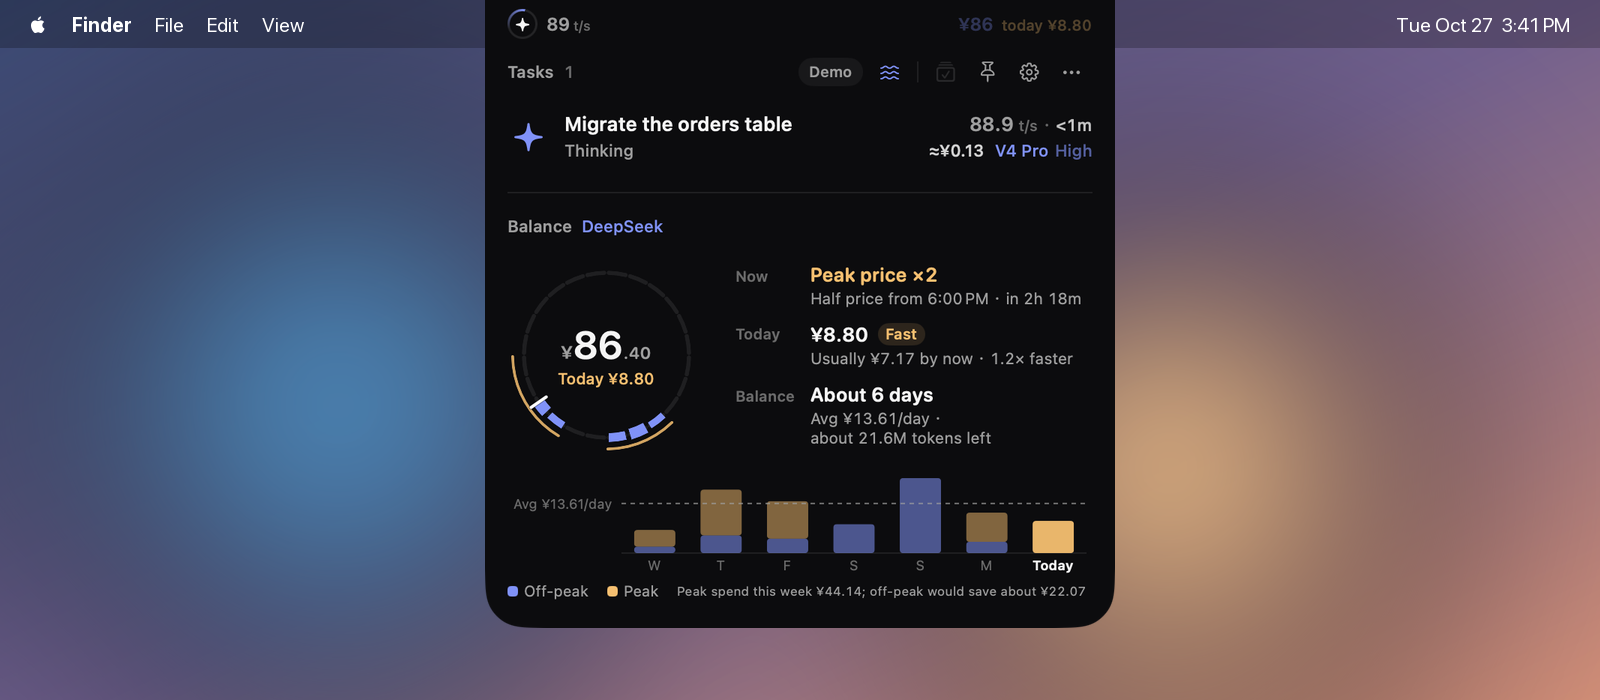
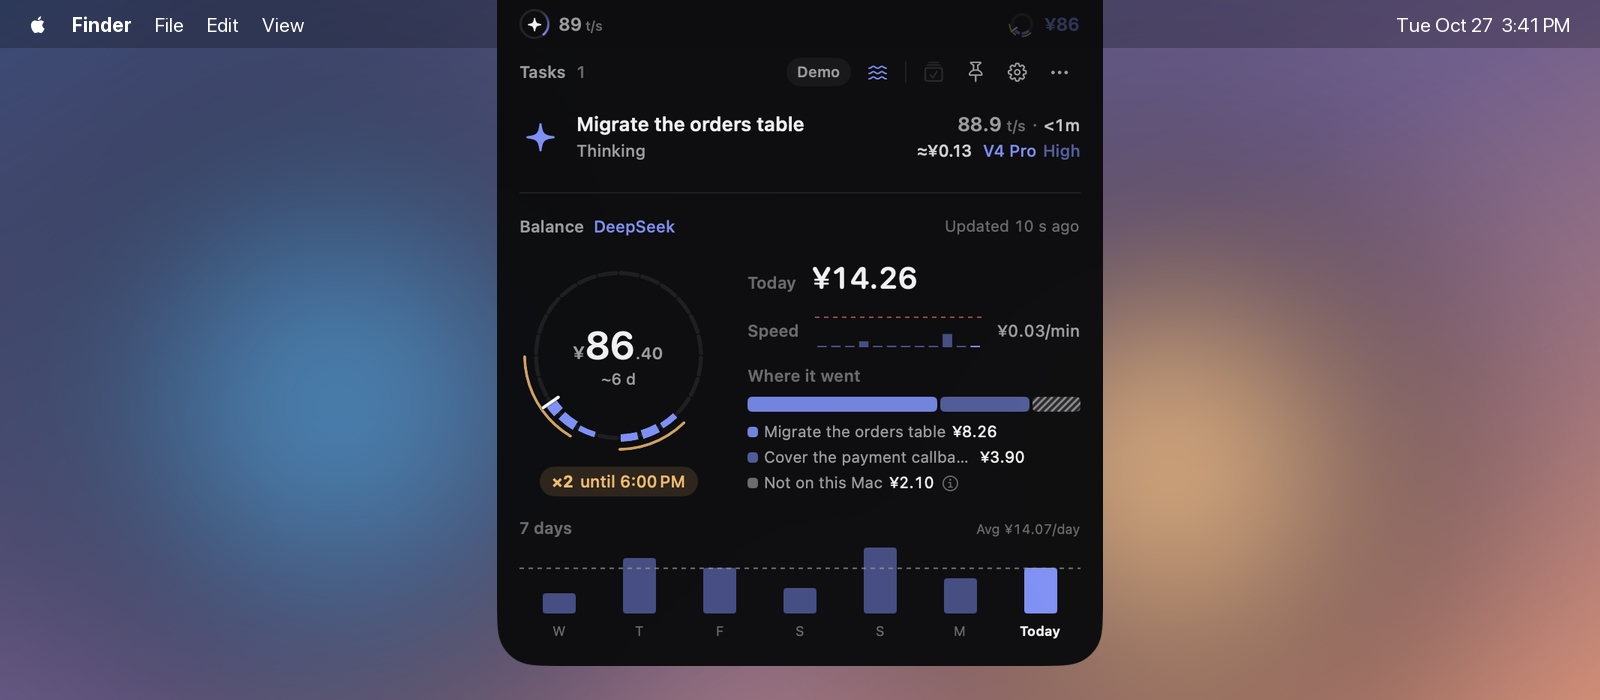
Refresh the README and guide screenshots for 4.1
The DeepSeek-only panel now shows the 4.1 Detailed layout in Balance mode:
the day dial with its ×2 chip beside Today, Speed and Where it went with
the hatched Not on this Mac part, above 7 days. The hero still and demo
loops are re-recorded because the three-module DeepSeek dial shows how
long the balance lasts and a ×2 chip instead of today's spend and Peak.
All captures come from the isolated marketing build with sample data.

Changed region(s): [[0.2812, 0.0, 0.7188, 0.96], [0.5938, 0.09, 0.6562, 0.12], [0.5, 0.09, 0.5625, 0.12]]

diff --git a/README.md b/README.md
@@ -47,7 +47,7 @@ Collapsed, Pacer is a slim bar around the camera that tells you how your agents 
 - **DeepSeek by balance or budget.** DeepSeek charges a balance instead of quota windows, so its dial is today on a 24-hour face: what each hour cost, the doubled-price peak hours and the balance in the middle. Switch to daily and weekly budgets and the dial paces them like quota. Pacer checks balance changes against its own estimate, so spend not made on this Mac, such as web searches or another device, counts too, and it warns you when 10 minutes cost more than usual. Each task shows its turn's estimated cost, and with DeepSeek alone the panel adds where today's money went and the last 7 days. The balance comes from a DeepSeek platform sign-in in Pacer's own window or an API key, whichever matches how Harness signs in.
 - **History when you want it.** Settings keeps each service's quota curve for the current cycle, plus credits and banked resets when the service reports them.
 
-![DeepSeek alone, with sample data: the day dial with the balance and today's spend beside the current price, today against a usual day and how long the balance lasts, above a week of spend split into off-peak and peak](docs/assets/deepseek.png)
+![DeepSeek alone, with sample data: the day dial with the balance and a ×2 until 6:00 PM chip, beside today's spend, the last two hours' speed and where today's money went, including a hatched Not on this Mac part, above the last 7 days](docs/assets/deepseek.png)
 
 ## Make it yours
 

diff --git a/README.zh-CN.md b/README.zh-CN.md
@@ -47,7 +47,7 @@
 - **DeepSeek 按余额或预算。** DeepSeek 按余额扣费，没有额度窗口，所以它的环是今天的 24 小时钟面：每个小时花了多少、单价翻倍的高峰时段，中间是余额。也可以改用每日、每周预算，环会像额度一样显示配速。Pacer 用余额变化和本机估算对账，联网搜索、别的设备等不在本机的花费也会算进去；10 分钟花得比平时多时会提醒你。每个任务显示这一回合的估算花费；只开启 DeepSeek 时，面板还会显示今天的花费去向和近 7 天。余额按 Harness 的登录方式，通过 Pacer 窗口中的 DeepSeek 开放平台登录或 API Key 读取。
 - **需要时再看历史。** 设置里保留每个服务当前周期的额度曲线；服务提供时，还能看到 Credit 和重置券。
 
-![只开启 DeepSeek（演示数据）：日环中间是余额和今日花费，右侧是当前价格、今天与平时相比、余额够用几天，下方是按空闲和高峰拆分的近 7 天花费](docs/assets/deepseek.zh-CN.png)
+![只开启 DeepSeek（演示数据）：日环中间是余额，下方是“×2 至 下午6:00”提示；右侧是今天的花费、最近 2 小时的速度和今天的花费去向，含带斜纹的“不在本机”；下方是近 7 天](docs/assets/deepseek.zh-CN.png)
 
 ## 按你的习惯来
 

diff --git a/docs/guide.md b/docs/guide.md
@@ -95,7 +95,7 @@ With only DeepSeek on, the dial sits on the left; during peak hours a chip under
 
 **Settings → DeepSeek → Expanded Panel** chooses **Detailed**, the default, or **Simple**, which keeps the dial and what sits beside it but leaves out Where it went and 7 days.
 
-![DeepSeek alone: the day dial beside Now, Today and Balance, above the week of off-peak and peak spend](assets/deepseek.png)
+![DeepSeek alone: the day dial with its ×2 until 6:00 PM chip, beside Today, Speed and Where it went with its hatched Not on this Mac part, above 7 days](assets/deepseek.png)
 
 If quota cannot be read, the ring says why and offers a retry. Hover over a ring for the source and last update. Quota history, credits and banked resets are in **Settings → Codex** and **Settings → Claude**.
 
